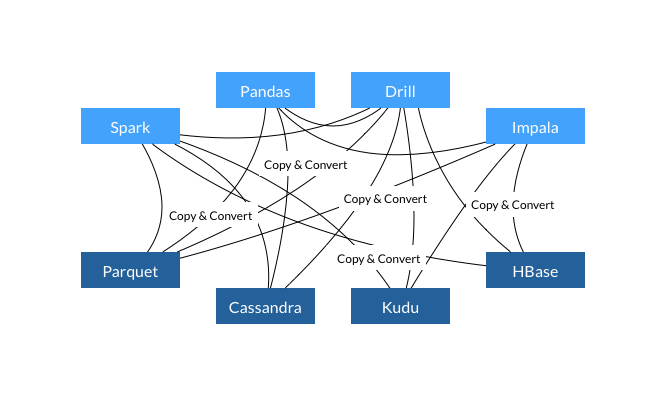
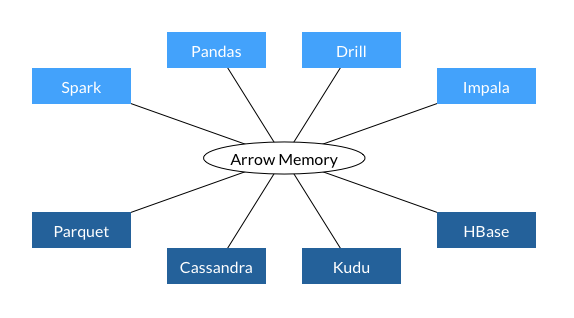
ARROW-1872: [Website] Minor edits and addition of YAML for versions
Hi, in this version I've:

* Added a YAML file for tracking versions and outputting related links etc.
* Done some minor cleanup on HTML and images
* Added a small paragraph about what Arrow is to the front page

Author: Justin Dunham <riboflavin@justindunham.net>

Closes #1483 from riboflavin/master and squashes the following commits:

9ffb5263 [Justin Dunham] fix responsive layout
fece5578 [Justin Dunham] update front page description
6174a5fb [Justin Dunham] small image cleanups
173ead2c [Justin Dunham] slight improvements to mobile and html layout
fe9007d5 [Justin Dunham] add version vars, small amount of copy, and clean up formatting slightly

Changed region(s): [[0.0296, 0.0849, 0.9477, 0.9057], [0.6812, 0.4528, 0.8589, 0.566]]

diff --git a/site/index.html b/site/index.html
@@ -1,74 +1,78 @@
 ---
 layout: default
 ---
-    <div class="container">
-      <div class="jumbotron">
+<div class="container">
+    <div class="jumbotron">
         <h1>Apache Arrow</h1>
-        <p class="lead">Powering Columnar In-Memory Analytics</p>
+        <p class="lead">A cross-language development platform for in-memory data</p>
         <p>
-          <a class="btn btn-lg btn-success" href="mailto:dev-subscribe@arrow.apache.org" role="button">Join Mailing List</a>
-          <a class="btn btn-lg btn-primary" href="{{ site.baseurl }}/install/" role="button">Install (0.8.0 Release - December 18, 2017)</a>
+            <a class="btn btn-lg btn-success" style="white-space: normal;" href="mailto:dev-subscribe@arrow.apache.org" role="button">Join Mailing List</a>
+            <a class="btn btn-lg btn-primary" style="white-space: normal;" href="{{ site.baseurl }}/install/" role="button">Install ({{site.data.versions['current'].number}} Release - {{site.data.versions['current'].date}})</a>
         </p>
-      </div>
-      <h4><a href="{{ site.baseurl }}/blog/"><strong>See Latest News</strong></a></h4>
-      <div class="row">
+    </div>
+    <div class="row">
+        <div class="col-xs-12">
+            <h4>
+                <a href="{{ site.baseurl }}/blog/"><strong>See Latest News</strong></a>
+            </h4>
+        </div>
+    </div>
+    <div class="row">
+        <div class="col-xs-12">
+            <p>Apache Arrow is a cross-language development platform for in-memory data. It specifies a standardized language-independent columnar memory format for flat and hierarchical data, organized for efficient analytic operations on modern hardware. It also provides computational libraries and zero-copy streaming messaging and interprocess communication. Languages currently supported include C, C++, Java, JavaScript, Python, and Ruby.</p>
+        </div>
+    </div>
+    <div class="row">
         <div class="col-lg-4">
-          <h2>Fast</h2>
-          <p>Apache Arrow&#8482; enables execution engines to take advantage of
- the latest SIMD (Single input multiple data) operations included in modern
- processors, for native vectorized optimization of analytical data
- processing. Columnar layout is optimized for data locality for better
- performance on modern hardware like CPUs and GPUs.</p>
-
-          <p>The Arrow memory format supports <strong>zero-copy reads</strong>
-          for lightning-fast data access without serialization overhead.</p>
-
+            <h2>Fast</h2>
+            <p>Apache Arrow&#8482; enables execution engines to take advantage of the latest SIMD (Single input multiple data) operations included in modern processors, for native vectorized optimization of analytical data processing. Columnar layout is optimized for data locality for better performance on modern hardware like CPUs and GPUs.</p>
+            <p>The Arrow memory format supports <strong>zero-copy reads</strong> for lightning-fast data access without serialization overhead.</p>
         </div>
         <div class="col-lg-4">
-          <h2>Flexible</h2>
-          <p>Arrow acts as a new high-performance interface between various
-          systems. It is also focused on supporting a wide variety of
-          industry-standard programming languages. Java, C, C++, Python, Ruby,
-          and JavaScript implementations are in progress and more languages are
-          welcome.</p>
+            <h2>Flexible</h2>
+            <p>Arrow acts as a new high-performance interface between various systems. It is also focused on supporting a wide variety of industry-standard programming languages. Java, C, C++, Python, Ruby, and JavaScript implementations are in progress and more languages are welcome.
+            </p>
         </div>
         <div class="col-lg-4">
-          <h2>Standard</h2>
-          <p>Apache Arrow is backed by key developers of 13 major open source
-          projects, including Calcite, Cassandra, Drill, Hadoop, HBase, Ibis,
-          Impala, Kudu, Pandas, Parquet, Phoenix, Spark, and Storm making it
-          the de-facto standard for columnar in-memory analytics.</p>
-
-          <p>Learn more about projects that are <a href="{{ site.baseurl
-          }}/powered_by/">Powered By Apache Arrow</a></p>
-
+            <h2>Standard</h2>
+            <p>Apache Arrow is backed by key developers of 13 major open source projects, including Calcite, Cassandra, Drill, Hadoop, HBase, Ibis, Impala, Kudu, Pandas, Parquet, Phoenix, Spark, and Storm making it the de-facto standard for columnar in-memory analytics.</p>
+            <p>Learn more about projects that are <a href="{{ site.baseurl }}/powered_by/">Powered By Apache Arrow</a></p>
         </div>
-     </div> <!-- close "row" div -->
+    </div>
+    <!-- close "row" div -->
 
-<h2>Performance Advantage of Columnar In-Memory</h2>
-<div align="center">
-  <img src="img/simd.png" alt="SIMD" style="width:60%" />
-</div>
-<h2>Advantages of a Common Data Layer</h2>
+    <div class="row">
+        <div class="col-xs-12">
+            <h2>Performance Advantage of Columnar In-Memory</h2>
+        </div>
+        <div class="col-lg-offset-2 col-lg-8 col-xs-12">
+            <img src="img/simd.png" alt="SIMD" class="img-responsive" />
+        </div>
+    </div>
 
-<div class="row">
-<div class="col-lg-4" style="width:50%">
-<img src="img/copy2.png" alt="common data layer" style="width:100%" />
-<ul>
-    <li>Each system has its own internal memory format</li>
-    <li>70-80% computation wasted on serialization and deserialization</li>
-    <li>Similar functionality implemented in multiple projects</li>
-</ul>
+    <div class="row">
+        <div class="col-xs-12">
+            <h2>Advantages of a Common Data Layer</h2>
+        </div>
+        <div class="col-lg-6 col-lg-offset-0 col-sm-8 col-sm-offset-2 col-xs-10 col-xs-offset-1">
+            <img src="img/copy.png" alt="common data layer" class="img-responsive" />
+            <ul>
+                <li>Each system has its own internal memory format</li>
+                <li>70-80% computation wasted on serialization and deserialization</li>
+                <li>Similar functionality implemented in multiple projects</li>
+            </ul>
+        </div>
+        <div class="col-lg-6 col-lg-offset-0 col-sm-8 col-sm-offset-2 col-xs-10 col-xs-offset-1">
+            <img src="img/shared.png" alt="common data layer" class="img-responsive" />
+            <ul>
+                <li>All systems utilize the same memory format</li>
+                <li>No overhead for cross-system communication</li>
+                <li>Projects can share functionality (eg, Parquet-to-Arrow reader)</li>
+            </ul>
+        </div>
+    </div>
 </div>
-<div class="col-lg-4" style="width:50%">
-<img src="img/shared2.png" alt="common data layer" style="width:100%" />
-<ul>
-    <li>All systems utilize the same memory format</li>
-    <li>No overhead for cross-system communication</li>
-    <li>Projects can share functionality (eg, Parquet-to-Arrow reader)</li>
-</ul>
-</div>
-</div>
-    </div> <!-- /container -->
-  </body>
+<!-- /container -->  
+
+</body>
 </html>

diff --git a/site/install.md b/site/install.md
@@ -20,9 +20,9 @@ limitations under the License.
 {% endcomment %}
 -->
 
-## Current Version: 0.8.0
+## Current Version: {{site.data.versions['current'].number}}
 
-### Released: 18 December 2017
+### Released: {{site.data.versions['current'].date}}
 
 See the [release notes][10] for more about what's new.
 
@@ -30,7 +30,7 @@ See the [release notes][10] for more about what's new.
 
 * **Source Release**: [apache-arrow-0.8.0.tar.gz][6]
 * **Verification**: [sha512][3], [asc][7] ([verification instructions][12])
-* [Git tag 1d689e5][2]
+* [Git tag {{site.data.versions['current'].git-tag}}][2]
 * [PGP keys for release signatures][11]
 
 ### Java Packages
@@ -145,15 +145,15 @@ These repositories are managed at
 [red-data-tools/arrow-packages][9]. If you have any feedback, please
 send it to the project instead of Apache Arrow project.
 
-[1]: https://www.apache.org/dyn/closer.cgi/arrow/arrow-0.8.0/
-[2]: https://github.com/apache/arrow/releases/tag/apache-arrow-0.8.0
-[3]: https://www.apache.org/dist/arrow/arrow-0.8.0/apache-arrow-0.8.0.tar.gz.sha512
-[4]: http://search.maven.org/#search%7Cga%7C1%7Cg%3A%22org.apache.arrow%22%20AND%20v%3A%220.8.0%22
+[1]: {{site.data.versions['current'].mirrors}}
+[2]: {{site.data.versions['current'].github-tag-link}}
+[3]: {{site.data.versions['current'].sha512}}
+[4]: {{site.data.versions['current'].java-artifacts}}
 [5]: http://conda-forge.github.io
-[6]: https://www.apache.org/dyn/closer.cgi/arrow/arrow-0.8.0/apache-arrow-0.8.0.tar.gz
-[7]: https://www.apache.org/dist/arrow/arrow-0.8.0/apache-arrow-0.8.0.tar.gz.asc
+[6]: {{site.data.versions['current'].mirrors-tar}}
+[7]: {{site.data.versions['current'].asc}}
 [8]: https://github.com/red-data-tools/parquet-glib
 [9]: https://github.com/red-data-tools/arrow-packages
-[10]: http://arrow.apache.org/release/0.8.0.html
+[10]: {{site.data.versions['current'].release-notes}}
 [11]: http://www.apache.org/dist/arrow/KEYS
 [12]: https://www.apache.org/dyn/closer.cgi#verify
